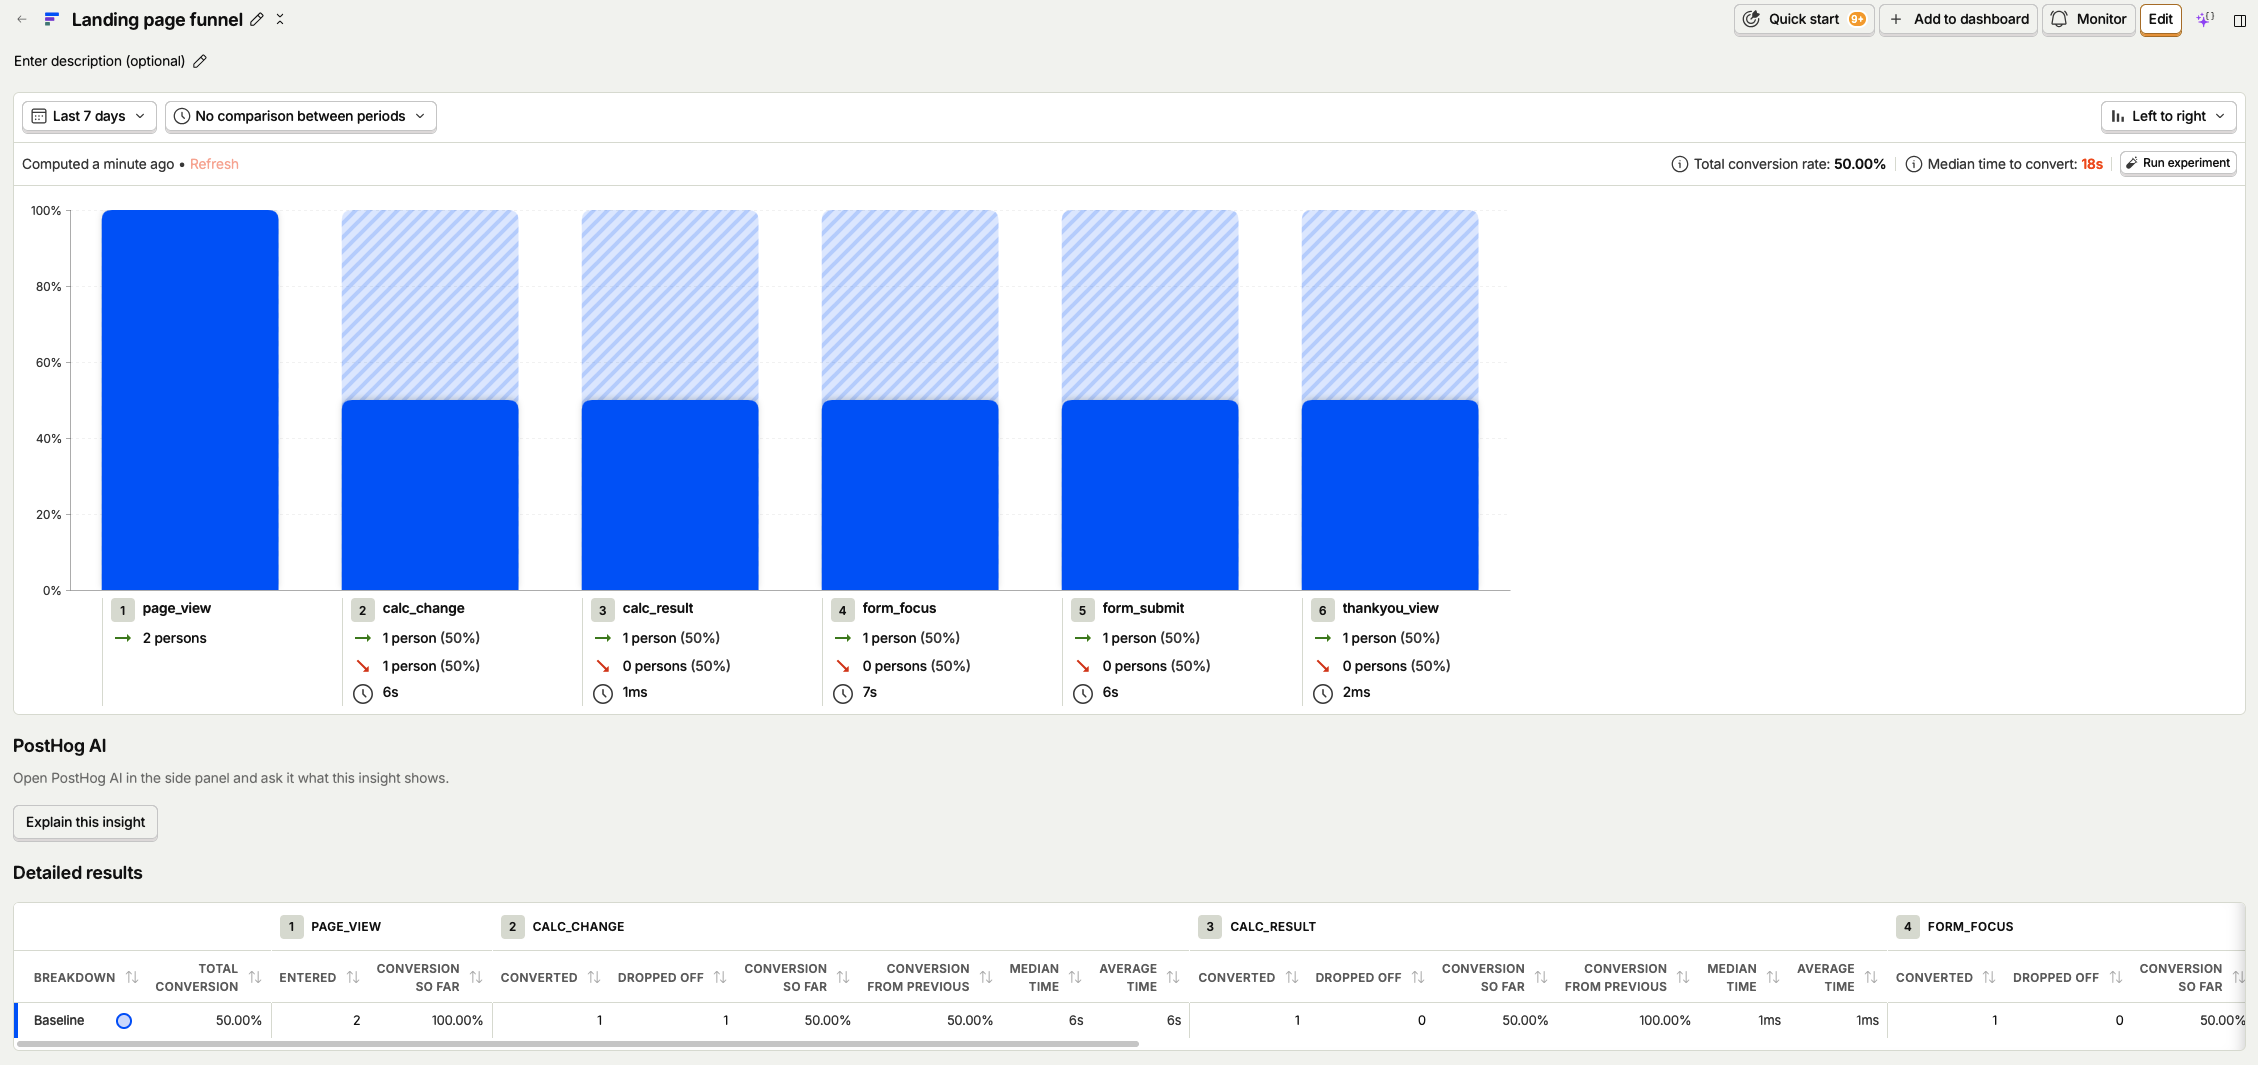
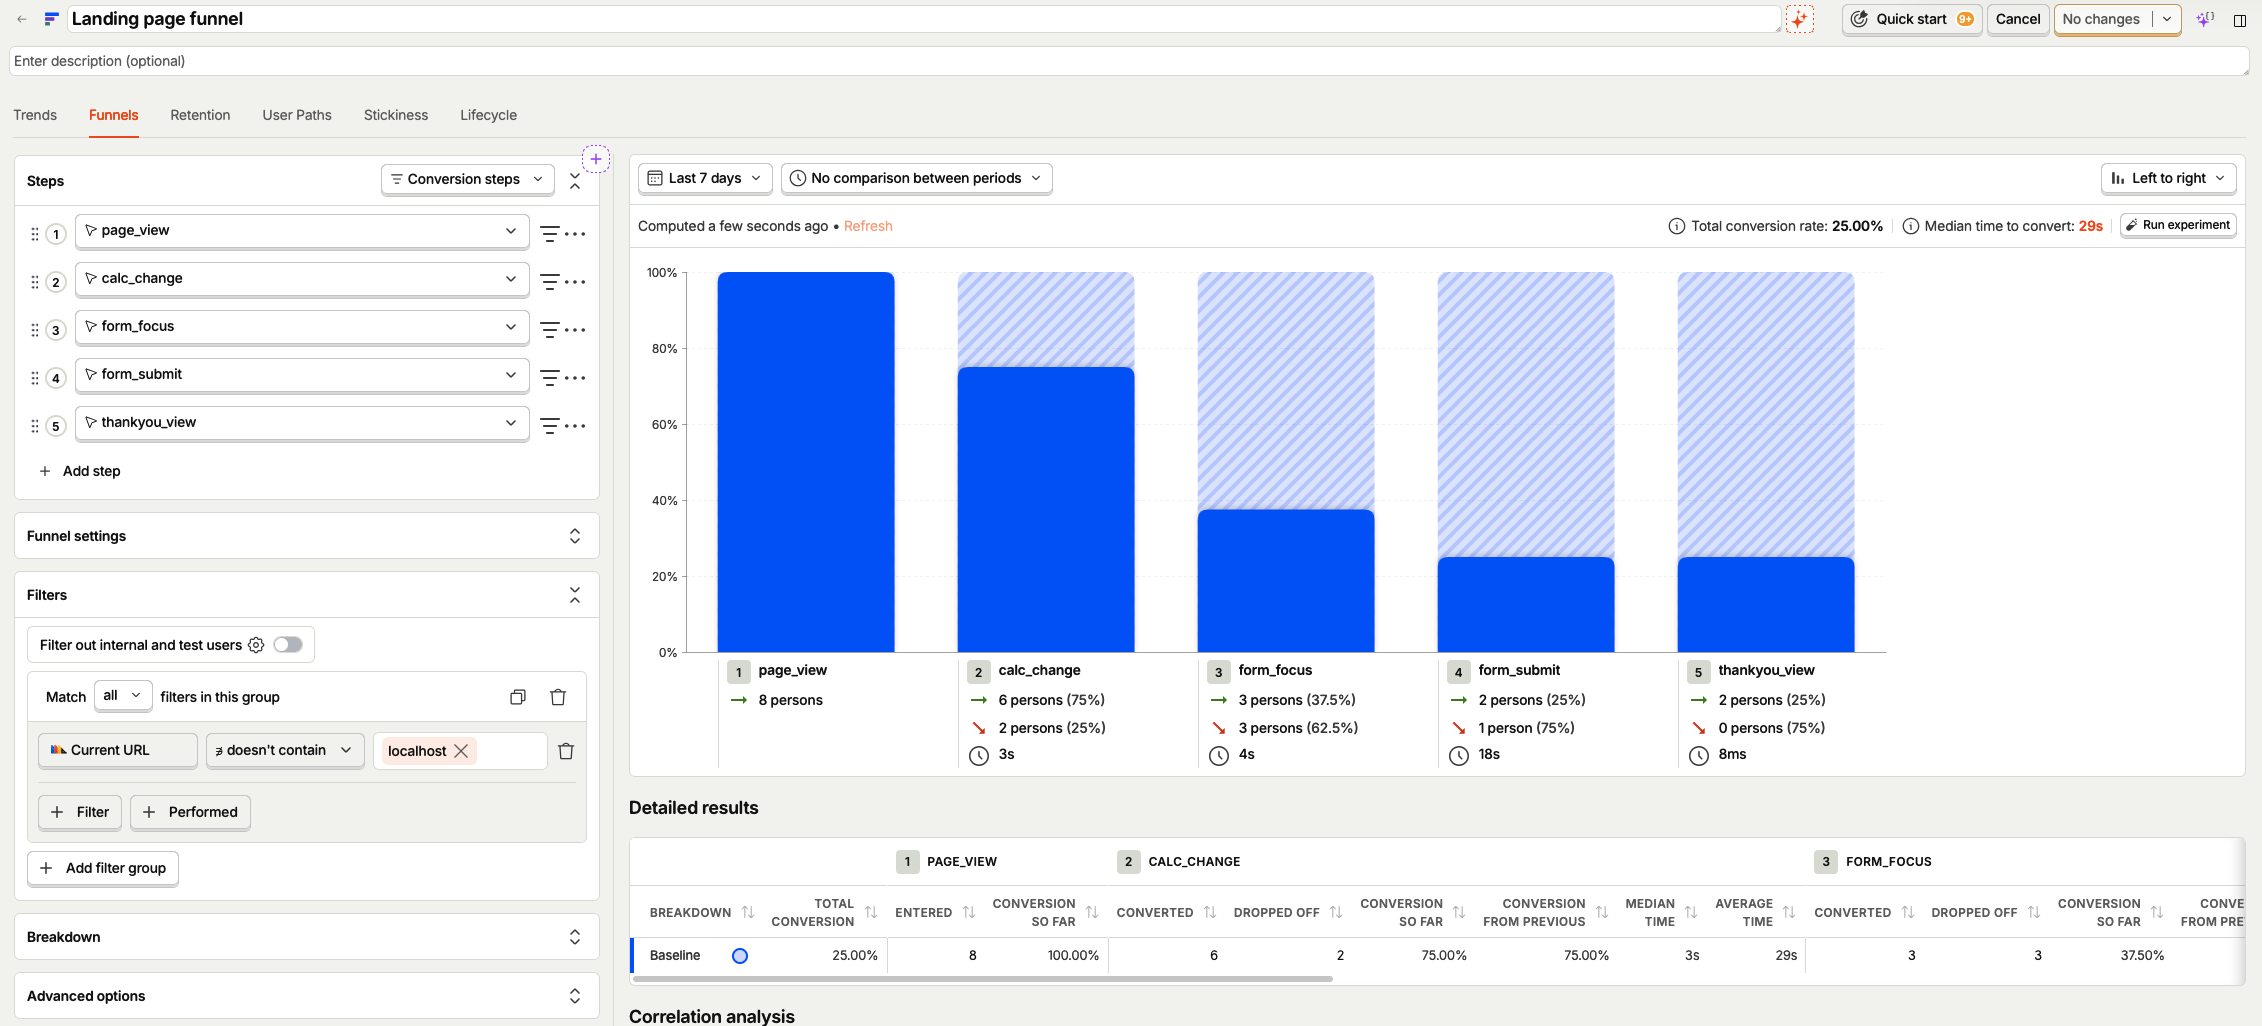
docs: new funnel screenshot, phone test, PostHog test-event note

diff --git a/README.md b/README.md
@@ -109,8 +109,6 @@ Funnel: `page_view` → `calc_change` → `form_focus` → `form_submit` → `th
 
 ![Funnel in PostHog](docs/funnel.png)
 
-The screenshot is from the earlier six-step funnel, which still had `calc_result` between `calc_change` and `form_focus`.
-
 Test run on localhost: 2 page views, 1 full path to thankyou_view.
 
 Leads are stored in Supabase (table `leads`: e-mail, monthly amount, years, ad variant, created_at, updated_at, emailed_at). A repeat submit with the same e-mail updates the row.
@@ -196,10 +194,11 @@ Tools: Claude Code for implementation, Claude (chat) for discussing the approach
 | The form could be used to flood any inbox with e-mails                                          | Security review by a separate agent               | Limit per address; the second review found a race condition, fixed with one atomic DB update |
 | NUXT_MAIL_FROM had no angle brackets and used an unverifiable vercel.app domain | Agent tested against Resend's test address | Verified mail.kubandam.dev |
 | Result was hidden until first input, leaving an empty first screen | I noticed it on the live page | Shown on load, funnel event changed |
+| My test runs sent localhost events to PostHog because the blocking pattern was wrong | Agent noticed and reported it | Funnel filters out localhost |
 
 ## 13. What is missing
 
-- Real phone test. Tested on my phone: …
+- Tested on my phone (iPhone, Safari): both ad variants, result on load, form, thank-you screen, comparison e-mail delivered with working reply-to.
 - A privacy policy page. The consent sentence promises deletion on request, and today that is a manual step (the visitor replies to the e-mail). Nobody with legal training has checked the consent text.
 - Automatic data refresh. The values are checked by hand. With more time I would add a script that fetches the issuer pages once a month and opens a pull request when a value changes.
 - No real traffic yet, so the conversion estimate in section 9 and the A/B hypotheses in section 10 are untested. Only the headline variant can be switched today (by URL); hypotheses 1 and 3 need their variants built first.
